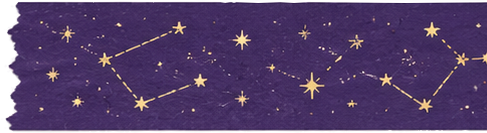
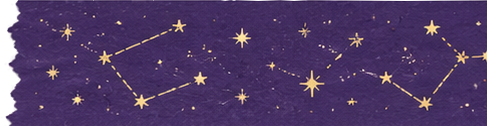
Dark washi tapes

diff --git a/src/components/App.jsx b/src/components/App.jsx
@@ -92,17 +92,15 @@ function App() {
 			"/images/washi-2.png",
 			"/images/washi-3.png",
 			"/images/washi-4.png",
-			"/images/washi-5.png",
 			"/images/washi-7.png",
 			"/images/washi-8.png",
 			"/images/washi-9.png",
-			"/images/washi-10.png",
 		];
 		const darkWashitapes = [
-			"/images/washi-8.png",
-			"/images/washi-9.png",
+			"/images/washi-5.png",
+			"/images/washi-6.png",
 			"/images/washi-10.png",
-			"/images/washi-4.png",
+			"/images/washi-11.png",
 		];
 
 		const randomTape =
